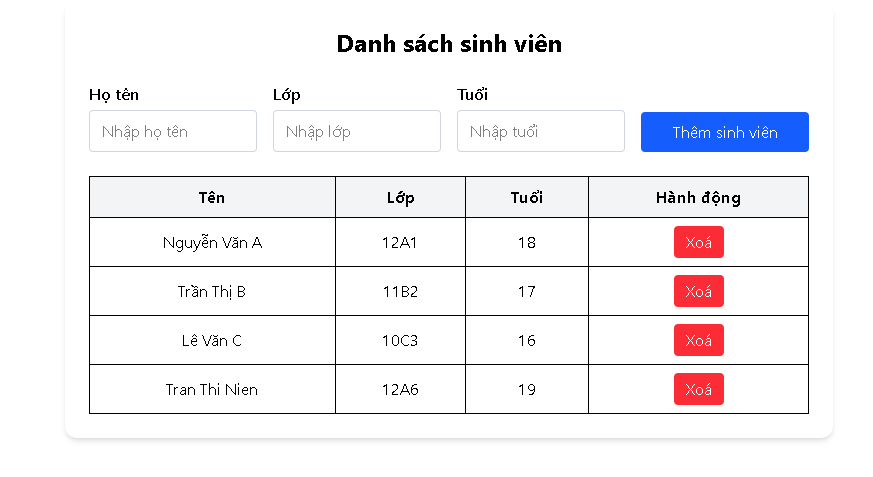
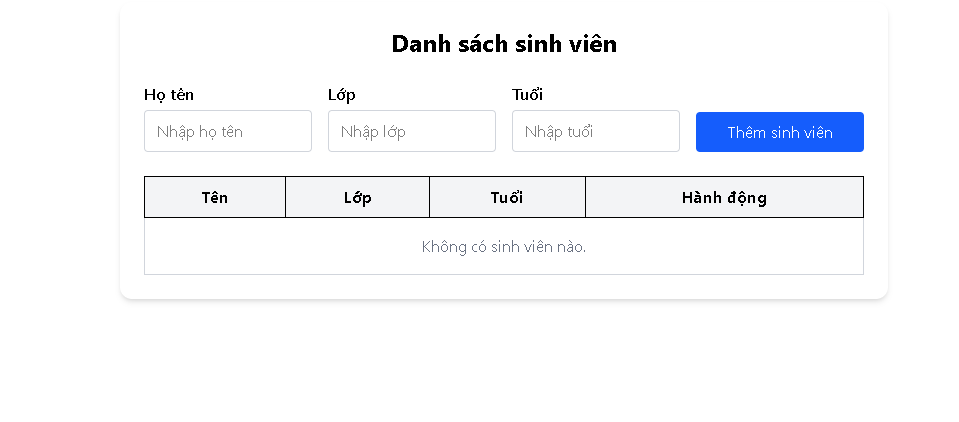
xoa sinh vien

diff --git a/baithi/src/pages/StudentList.jsx b/baithi/src/pages/StudentList.jsx
@@ -2,17 +2,15 @@ import React, { useState } from 'react';
 
 const StudentList = () => {
   const [students, setStudents] = useState([
-    { ten: "Nguyễn Văn A", lop: "12A1", tuoi: 18 },
-    { ten: "Trần Thị B", lop: "11B2", tuoi: 17 },
-    { ten: "Lê Văn C", lop: "10C3", tuoi: 16 }
+    { id: 1, ten: "Nguyễn Văn A", lop: "12A1", tuoi: 18 },
+    { id: 2, ten: "Trần Thị B", lop: "11B2", tuoi: 17 },
+    { id: 3, ten: "Lê Văn C", lop: "10C3", tuoi: 16 }
   ]);
 
   const [form, setForm] = useState({ ten: '', lop: '', tuoi: '' });
 
-  const handleDelete = (index) => {
-    const newStudents = [...students];
-    newStudents.splice(index, 1);
-    setStudents(newStudents);
+  const handleDelete = (id) => {
+    setStudents(students.filter((sv) => sv.id !== id));
   };
 
   const handleChange = (e) => {
@@ -22,7 +20,13 @@ const StudentList = () => {
 
   const handleAdd = () => {
     if (form.ten && form.lop && form.tuoi) {
-      setStudents([...students, { ...form, tuoi: parseInt(form.tuoi) }]);
+      const newStudent = {
+        id: Date.now(), // tạo id duy nhất
+        ten: form.ten,
+        lop: form.lop,
+        tuoi: parseInt(form.tuoi)
+      };
+      setStudents([...students, newStudent]);
       setForm({ ten: '', lop: '', tuoi: '' }); // reset form
     } else {
       alert('Vui lòng điền đầy đủ thông tin!');
@@ -89,14 +93,14 @@ const StudentList = () => {
           </tr>
         </thead>
         <tbody>
-          {students.map((sv, index) => (
-            <tr key={index} className="text-center">
+          {students.map((sv) => (
+            <tr key={sv.id} className="text-center">
               <td className="border px-4 py-2">{sv.ten}</td>
               <td className="border px-4 py-2">{sv.lop}</td>
               <td className="border px-4 py-2">{sv.tuoi}</td>
               <td className="border px-4 py-2">
                 <button
-                  onClick={() => handleDelete(index)}
+                  onClick={() => handleDelete(sv.id)}
                   className="bg-red-500 text-white px-3 py-1 rounded hover:bg-red-600 transition"
                 >
                   Xoá
